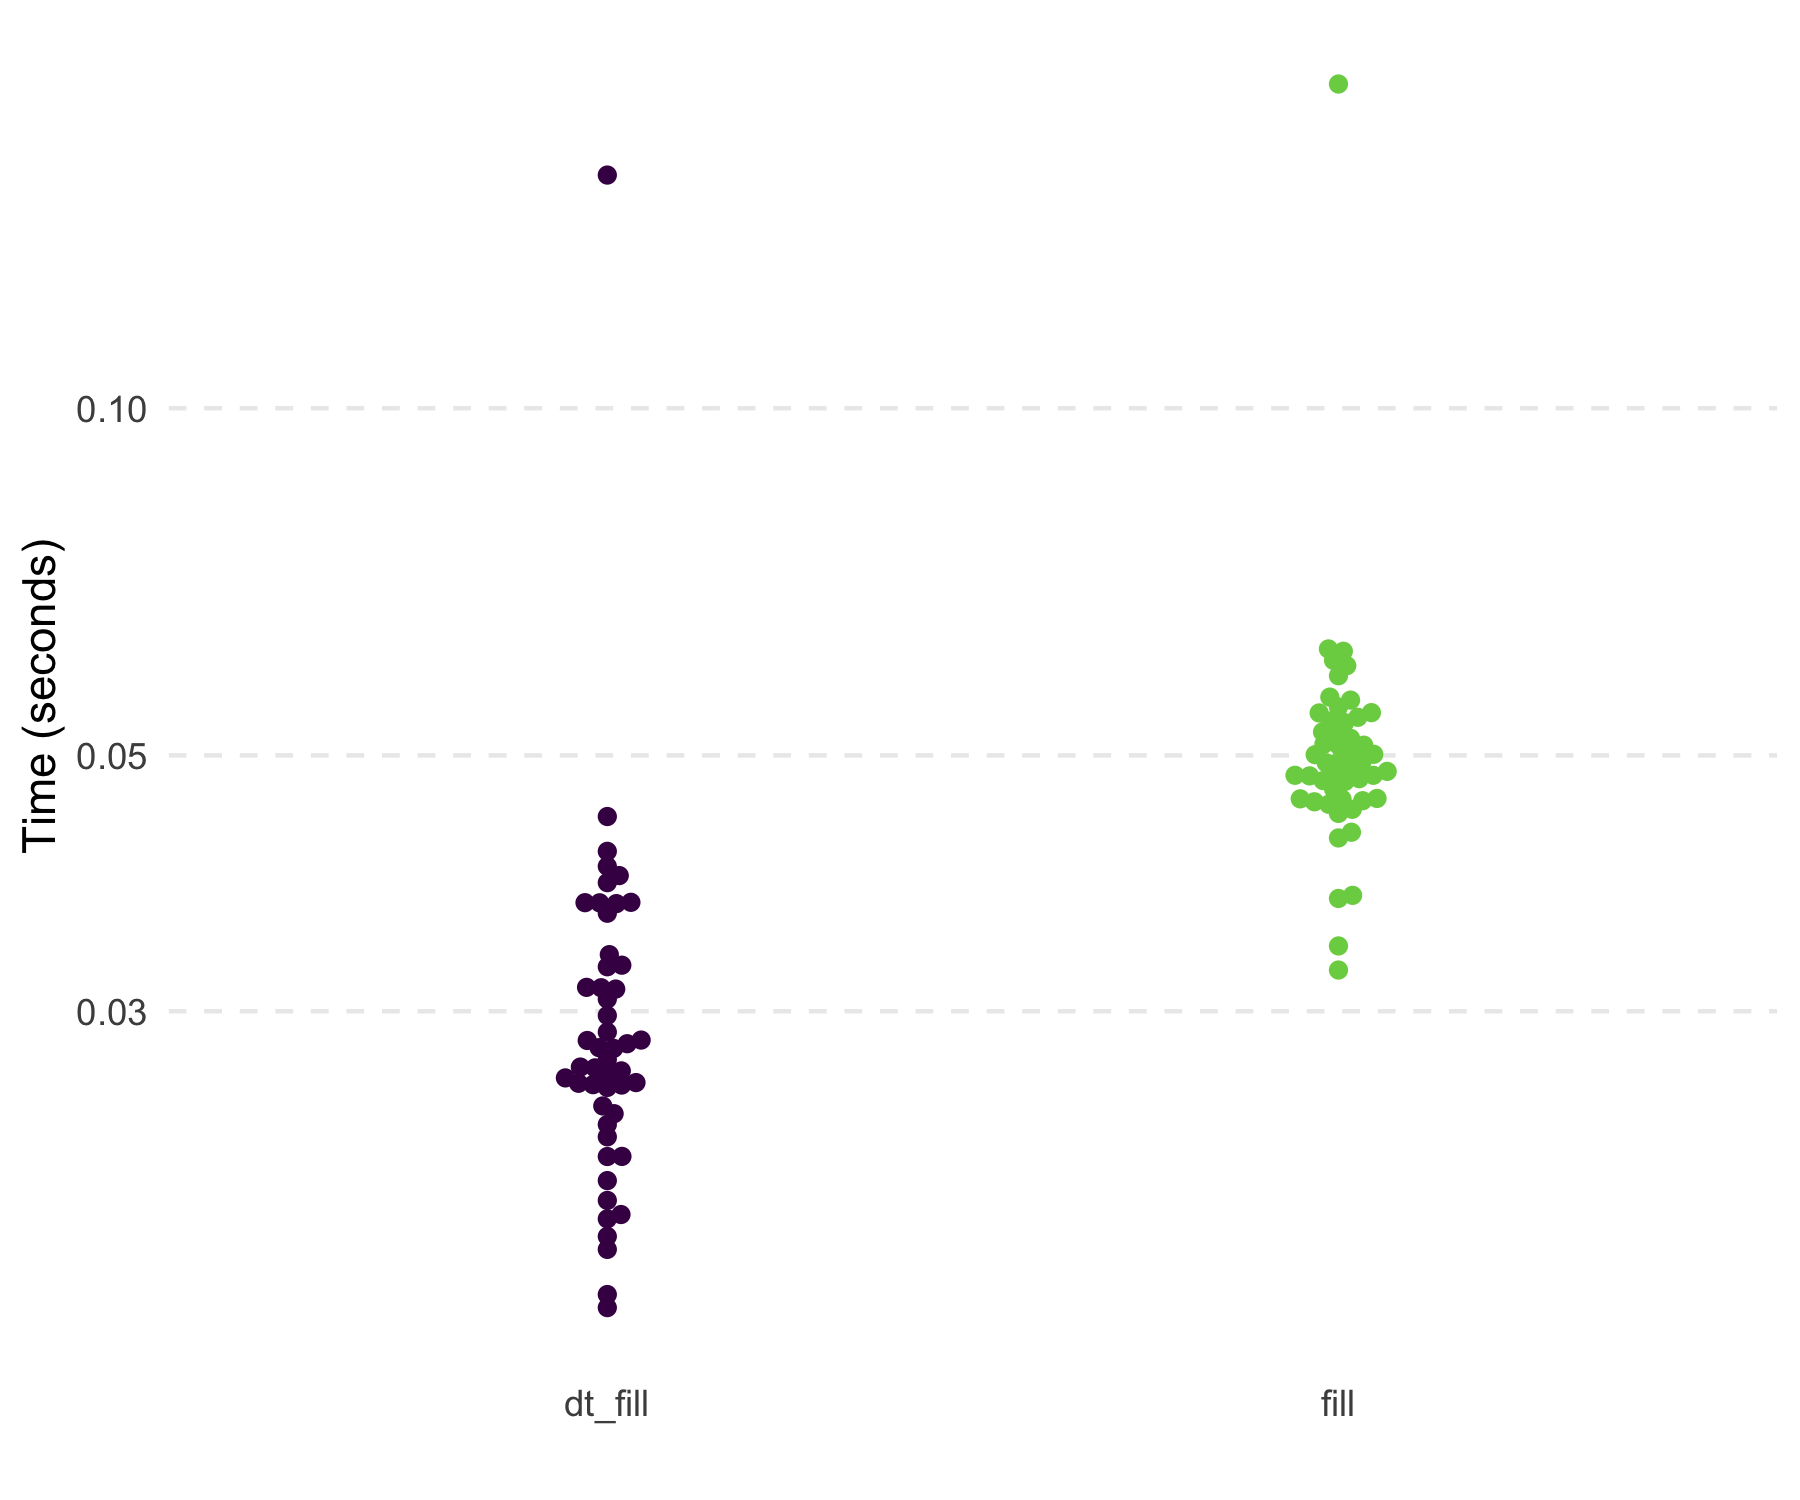
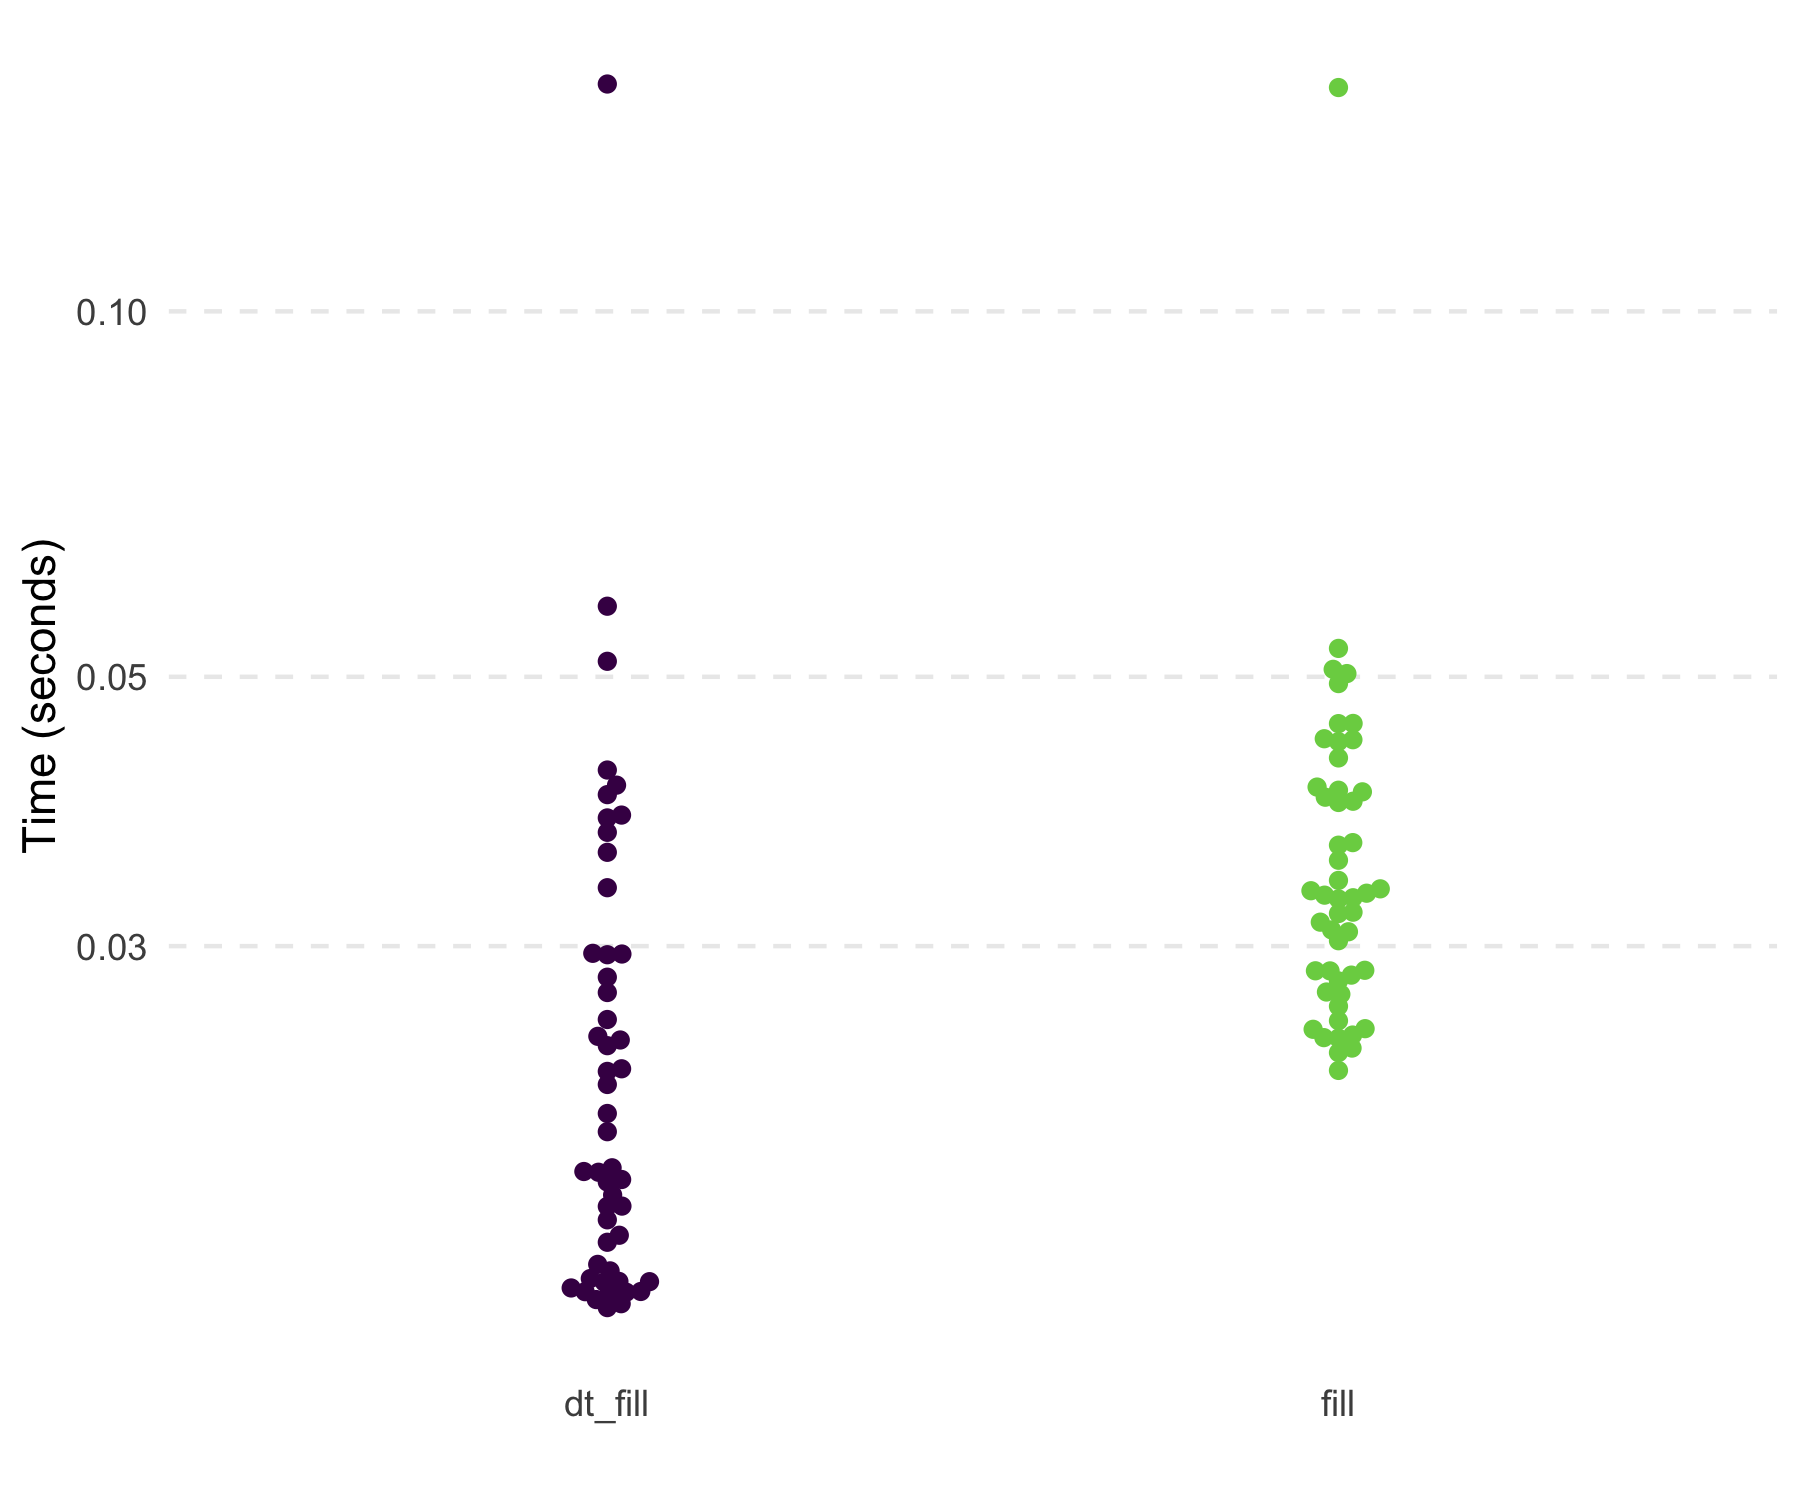
updated email

diff --git a/README.md b/README.md
@@ -1,7 +1,7 @@
 
 <!-- README.md is generated from README.Rmd. Please edit that file -->
 
-# `tidyfast v0.3.2` <img src="man/figures/tidyfast_hex.png" align="right" width="30%" height="30%" />
+# `tidyfast v0.3.3` <img src="man/figures/tidyfast_hex.png" align="right" width="30%" height="30%" />
 
 <!-- badges: start -->
 
@@ -14,6 +14,10 @@ coverage](https://codecov.io/gh/TysonStanley/tidyfast/branch/master/graph/badge.
 [![R build
 status](https://github.com/TysonStanley/tidyfast/workflows/R-CMD-check/badge.svg)](https://github.com/TysonStanley/tidyfast/actions)
 <!-- badges: end -->
+
+**Note: The expansion of `dtplyr` has made some of the functionality in
+`tidyfast` redundant. See `dtplyr` for a list of functions that are
+handled within that framework.**
 
 The goal of `tidyfast` is to provide fast and efficient alternatives to
 some `tidyr` (and a few `dplyr`) functions using `data.table` under the
@@ -223,18 +227,18 @@ highlighted below. Notably, the timings are without the `nested1` and
 `nested2` columns of the original `dt` object from above. Also, all
 `dplyr` and `tidyr` functions use a `tbl` version of the `dt` table.
 
-<img src="man/figures/README-unnamed-chunk-8-1.png" width="70%" />
+<img src="man/figures/README-unnamed-chunk-7-1.png" width="70%" />
 
-    #> # A tibble: 2 x 3
+    #> # A tibble: 2 × 3
     #>   expression   median mem_alloc
     #>   <chr>      <bch:tm> <bch:byt>
-    #> 1 dt_nest      3.67ms    2.88MB
-    #> 2 group_nest   7.85ms    5.42MB
-    #> # A tibble: 2 x 3
+    #> 1 dt_nest      2.58ms    2.88MB
+    #> 2 group_nest   6.42ms    5.54MB
+    #> # A tibble: 2 × 3
     #>   expression   median mem_alloc
     #>   <chr>      <bch:tm> <bch:byt>
-    #> 1 dt_unnest    8.48ms   12.04MB
-    #> 2 unnest       8.74ms    6.01MB
+    #> 1 dt_unnest     4.9ms   11.68MB
+    #> 2 unnest       4.98ms    5.89MB
 
 ## Pivoting
 
@@ -304,13 +308,13 @@ But let’s compare some basic speed and efficiency. Because of the
 
 <img src="man/figures/README-third_pivot-1.png" width="70%" /><img src="man/figures/README-third_pivot-2.png" width="70%" />
 
-    #> # A tibble: 4 x 3
+    #> # A tibble: 4 × 3
     #>   expression        median mem_alloc
     #>   <chr>           <bch:tm> <bch:byt>
-    #> 1 dt_pivot_longer   1.07ms  996.42KB
-    #> 2 pivot_longer      7.36ms    2.47MB
-    #> 3 dt_pivot_wider    9.02ms    1.99MB
-    #> 4 pivot_wider       7.76ms     2.1MB
+    #> 1 dt_pivot_longer  904.6µs  996.42KB
+    #> 2 pivot_longer      3.81ms    2.05MB
+    #> 3 dt_pivot_wider    8.86ms    1.86MB
+    #> 4 pivot_wider       6.35ms    2.09MB
 
 ### If Else
 
@@ -354,14 +358,14 @@ identical(x_cat, x_cat_fif)
 Notably, `dt_case_when()` is very fast and memory efficient, given it is
 built on `data.table::fifelse()`.
 
-<img src="man/figures/README-unnamed-chunk-12-1.png" width="70%" />
+<img src="man/figures/README-unnamed-chunk-11-1.png" width="70%" />
 
-    #> # A tibble: 3 x 3
+    #> # A tibble: 3 × 3
     #>   expression     median mem_alloc
     #>   <chr>        <bch:tm> <bch:byt>
-    #> 1 case_when     138.7ms   148.8MB
-    #> 2 dt_case_when   18.8ms    19.1MB
-    #> 3 fifelse        39.7ms    34.3MB
+    #> 1 case_when     114.7ms   148.8MB
+    #> 2 dt_case_when   19.1ms    19.1MB
+    #> 3 fifelse        31.5ms    34.3MB
 
 ## Fill
 
@@ -465,13 +469,13 @@ marks3 <-
   )
 ```
 
-<img src="man/figures/README-unnamed-chunk-15-1.png" width="70%" />
+<img src="man/figures/README-unnamed-chunk-14-1.png" width="70%" />
 
-    #> # A tibble: 2 x 3
+    #> # A tibble: 2 × 3
     #>   expression                                    median mem_alloc
     #>   <bch:expr>                                  <bch:tm> <bch:byt>
-    #> 1 tidyr::fill(dplyr::group_by(df3, id), x, y)   45.7ms    42.6MB
-    #> 2 tidyfast::dt_fill(dt3, x, y, id = list(id))   33.8ms    36.7MB
+    #> 1 tidyr::fill(dplyr::group_by(df3, id), x, y)   27.1ms    42.9MB
+    #> 2 tidyfast::dt_fill(dt3, x, y, id = list(id))   16.8ms    36.7MB
 
 ## Separate
 
@@ -508,14 +512,14 @@ Testing with a 4 MB data set with one variable that has columns of “A.B”
 repeatedly, shows that `dt_separate()` is fast but less memory efficient
 than `tidyr::separate()`.
 
-<img src="man/figures/README-unnamed-chunk-20-1.png" width="70%" />
+<img src="man/figures/README-unnamed-chunk-19-1.png" width="70%" />
 
-    #> # A tibble: 3 x 3
+    #> # A tibble: 3 × 3
     #>   expression            median mem_alloc
     #>   <chr>               <bch:tm> <bch:byt>
-    #> 1 separate               5.89s    3.89GB
-    #> 2 dt_separate         105.45ms   22.92MB
-    #> 3 dt_separate-mutable  97.92ms   19.09MB
+    #> 1 separate                5.3s    3.89GB
+    #> 2 dt_separate           72.3ms   22.92MB
+    #> 3 dt_separate-mutable   68.6ms   19.09MB
 
 ## Count and Uncount
 
@@ -576,7 +580,7 @@ marks5 <-
   )
 ```
 
-<img src="man/figures/README-unnamed-chunk-24-1.png" width="70%" />
+<img src="man/figures/README-unnamed-chunk-23-1.png" width="70%" />
 
 ## Notes
 
